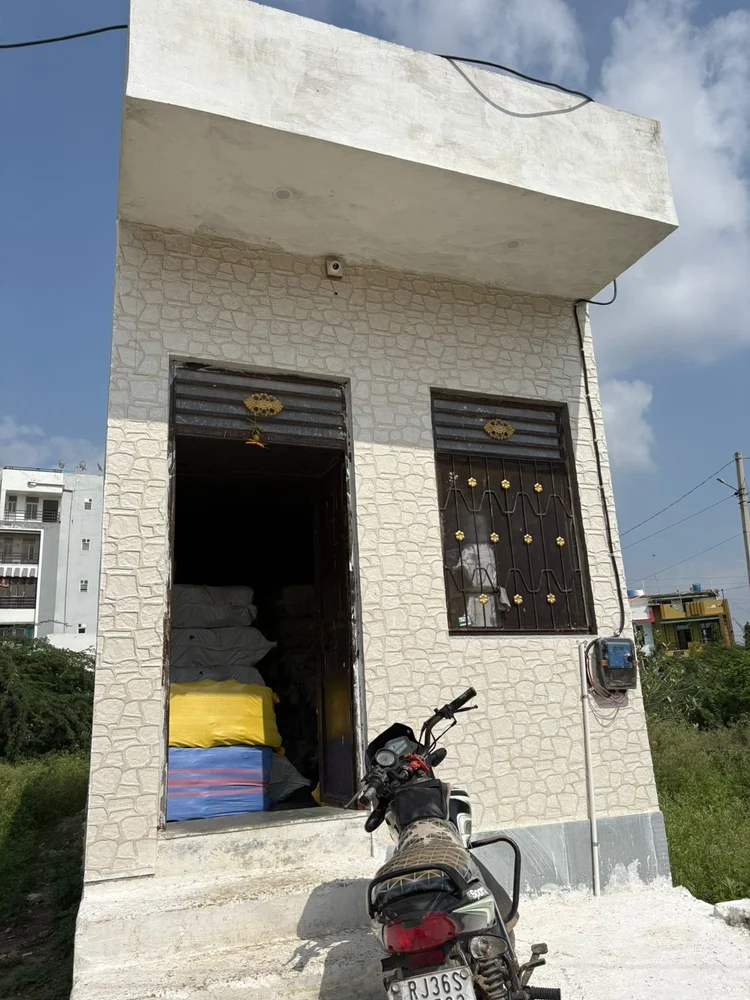
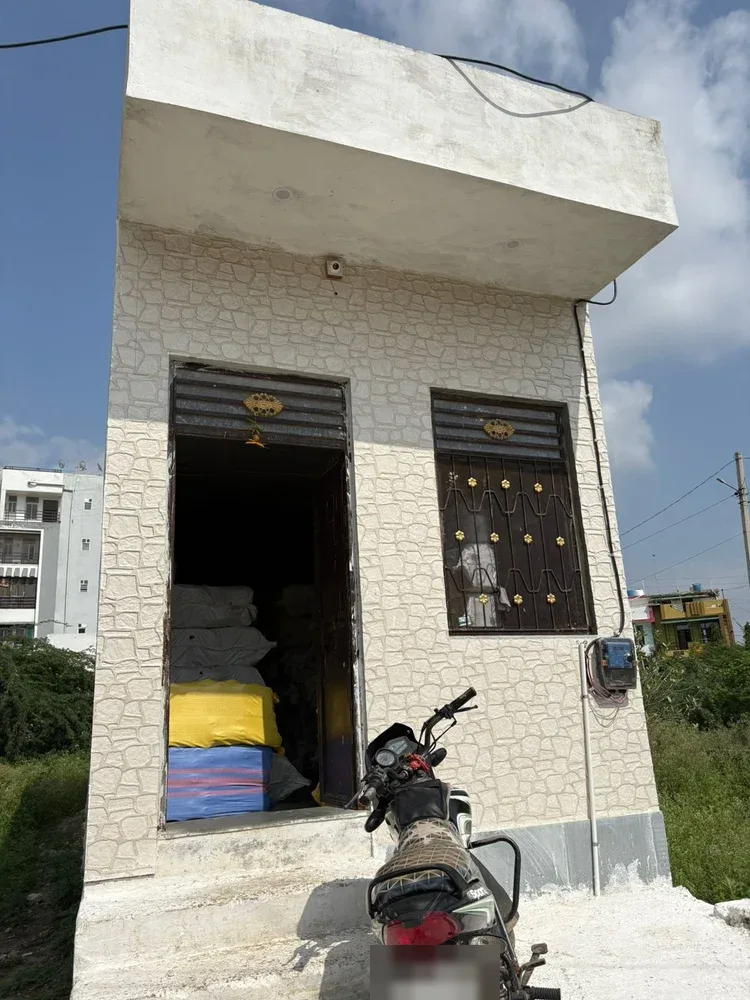
fix: per-page og:url and blur the number plate in the premises photo

Changed region(s): [[0.4907, 0.93, 0.6747, 1.0]]

diff --git a/src/app/layout.tsx b/src/app/layout.tsx
@@ -1,6 +1,7 @@
 import type { Metadata, Viewport } from "next";
 import { Oswald, Roboto } from "next/font/google";
 import { StructuredData } from "@/components/site/structured-data";
+import { baseOpenGraph } from "@/lib/seo";
 import "./globals.css";
 
 const oswald = Oswald({
@@ -47,15 +48,7 @@ export const metadata: Metadata = {
   authors: [{ name: "Giriraaj Textiles" }],
   creator: "Giriraaj Textiles",
   publisher: "Giriraaj Textiles",
-  openGraph: {
-    title: "Giriraaj Textiles",
-    description:
-      "3-ply polyester and polypropylene yarn for industrial bag closing. For distributors, export agents, and domestic buyers. Beawar, Rajasthan.",
-    url: "/",
-    siteName: "Giriraaj Textiles",
-    locale: "en_IN",
-    type: "website",
-  },
+  openGraph: { ...baseOpenGraph, url: "/" },
   twitter: {
     card: "summary_large_image",
     title: "Giriraaj Textiles",

diff --git a/src/lib/seo.ts b/src/lib/seo.ts
@@ -1,0 +1,25 @@
+import type { Metadata } from "next";
+
+export const baseOpenGraph = {
+  title: "Giriraaj Textiles",
+  description:
+    "3-ply polyester and polypropylene yarn for industrial bag closing. For distributors, export agents, and domestic buyers. Beawar, Rajasthan.",
+  siteName: "Giriraaj Textiles",
+  locale: "en_IN",
+  type: "website",
+} satisfies Metadata["openGraph"];
+
+/**
+ * Page-level openGraph replaces the layout's (including the file-based
+ * opengraph-image), so each page restates the base, its URL and the image.
+ */
+export function pageMeta(path: string): Pick<Metadata, "alternates" | "openGraph"> {
+  return {
+    alternates: { canonical: path },
+    openGraph: {
+      ...baseOpenGraph,
+      url: path,
+      images: [{ url: "/opengraph-image", width: 1200, height: 630, alt: "Giriraaj Textiles, bag closing yarn" }],
+    },
+  };
+}

diff --git a/src/app/products/polyester/page.tsx b/src/app/products/polyester/page.tsx
@@ -9,6 +9,7 @@ import {
 import { ProductReferenceImage } from "@/components/site/product-image";
 import { polyesterPhotos, yarnLines } from "@/lib/products";
 import { WA_POLYESTER } from "@/lib/site";
+import { pageMeta } from "@/lib/seo";
 
 const line = yarnLines.find((l) => l.id === "polyester")!;
 
@@ -16,7 +17,7 @@ export const metadata: Metadata = {
   title: "Polyester yarn",
   description:
     "3-ply polyester yarn for bag closing. Counts 10, 12, and 15. Recycled and virgin. MOQ 1,000 cones. Giriraaj Textiles, Beawar.",
-  alternates: { canonical: "/products/polyester" },
+  ...pageMeta("/products/polyester"),
 };
 
 export default function PolyesterPage() {

diff --git a/src/app/products/pp/page.tsx b/src/app/products/pp/page.tsx
@@ -9,6 +9,7 @@ import {
 import { ProductReferenceImage } from "@/components/site/product-image";
 import { polypropylenePhotos, yarnLines } from "@/lib/products";
 import { WA_PP } from "@/lib/site";
+import { pageMeta } from "@/lib/seo";
 
 const line = yarnLines.find((l) => l.id === "pp")!;
 
@@ -16,7 +17,7 @@ export const metadata: Metadata = {
   title: "Polypropylene yarn",
   description:
     "Polypropylene yarn for woven sack bag closing. Specifications on enquiry. Giriraaj Textiles, Beawar, Rajasthan.",
-  alternates: { canonical: "/products/pp" },
+  ...pageMeta("/products/pp"),
 };
 
 export default function PolypropylenePage() {

diff --git a/src/app/about/page.tsx b/src/app/about/page.tsx
@@ -2,6 +2,7 @@ import type { Metadata } from "next";
 import Image from "next/image";
 import Link from "next/link";
 import { PageHeader, SiteChrome, display, shell } from "@/components/site/chrome";
+import { pageMeta } from "@/lib/seo";
 
 const premisesPhotos = [
   { src: "/exterior2.webp", alt: "Giriraaj Textiles premises, Beawar" },
@@ -13,7 +14,7 @@ export const metadata: Metadata = {
   title: "About",
   description:
     "Giriraaj Textiles manufactures bag closing yarn in Beawar, Rajasthan. GST-registered since 2025.",
-  alternates: { canonical: "/about" },
+  ...pageMeta("/about"),
 };
 
 export default function AboutPage() {

diff --git a/src/app/products/page.tsx b/src/app/products/page.tsx
@@ -3,12 +3,13 @@ import Link from "next/link";
 import { PageHeader, SiteChrome, display, shell } from "@/components/site/chrome";
 import { ProductCoverImage } from "@/components/site/product-image";
 import { yarnLines } from "@/lib/products";
+import { pageMeta } from "@/lib/seo";
 
 export const metadata: Metadata = {
   title: "Products",
   description:
     "Polyester yarn and polypropylene yarn for industrial bag closing. 3-ply counts 10, 12, and 15. Beawar, Rajasthan.",
-  alternates: { canonical: "/products" },
+  ...pageMeta("/products"),
 };
 
 export default function ProductsPage() {

diff --git a/src/app/contact/page.tsx b/src/app/contact/page.tsx
@@ -1,12 +1,13 @@
 import type { Metadata } from "next";
 import { PageHeader, SiteChrome, display, shell } from "@/components/site/chrome";
 import { ADDRESS, MAPS_HREF, PHONE_DISPLAY, TEL_HREF, WA_GENERAL } from "@/lib/site";
+import { pageMeta } from "@/lib/seo";
 
 export const metadata: Metadata = {
   title: "Enquire",
   description:
     "Contact Giriraaj Textiles on WhatsApp or phone. Bag closing yarn enquiries. Replies within 12 hours.",
-  alternates: { canonical: "/contact" },
+  ...pageMeta("/contact"),
 };
 
 export default function ContactPage() {

diff --git a/src/app/page.tsx b/src/app/page.tsx
@@ -4,9 +4,10 @@ import { SiteChrome, display, shell, themeClasses } from "@/components/site/chro
 import { Hero } from "@/components/site/hero";
 import { ProductCoverImage } from "@/components/site/product-image";
 import { yarnLines } from "@/lib/products";
+import { pageMeta } from "@/lib/seo";
 
 export const metadata: Metadata = {
-  alternates: { canonical: "/" },
+  ...pageMeta("/"),
 };
 
 export default function HomePage() {
